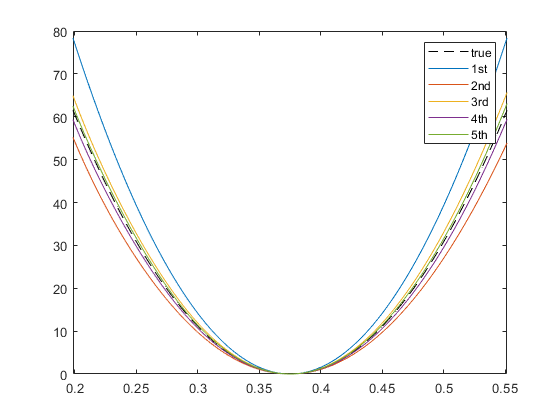
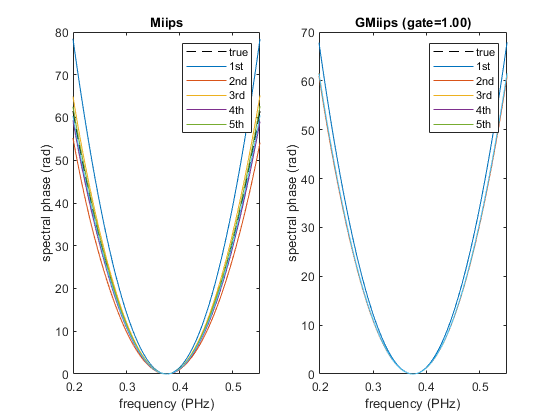
updated Gmiips_2nd_order_iterative.m to include both Miips and GMiips

diff --git a/manual/example_files/Gmiips_2nd_order_iterative.html b/manual/example_files/Gmiips_2nd_order_iterative.html
@@ -6,7 +6,7 @@
    <!--
 This HTML was auto-generated from MATLAB code.
 To make changes, update the MATLAB code and republish this document.
-      --><title>Simulation of Miips with 2nd order spectral phase</title><meta name="generator" content="MATLAB 9.4"><link rel="schema.DC" href="http://purl.org/dc/elements/1.1/"><meta name="DC.date" content="2018-06-11"><meta name="DC.source" content="Gmiips_2nd_order_iterative.m"><style type="text/css">
+      --><title>Simulation of GMiips with 2nd order spectral phase</title><meta name="generator" content="MATLAB 9.4"><link rel="schema.DC" href="http://purl.org/dc/elements/1.1/"><meta name="DC.date" content="2018-06-13"><meta name="DC.source" content="Gmiips_2nd_order_iterative.m"><style type="text/css">
 html,body,div,span,applet,object,iframe,h1,h2,h3,h4,h5,h6,p,blockquote,pre,a,abbr,acronym,address,big,cite,code,del,dfn,em,font,img,ins,kbd,q,s,samp,small,strike,strong,sub,sup,tt,var,b,u,i,center,dl,dt,dd,ol,ul,li,fieldset,form,label,legend,table,caption,tbody,tfoot,thead,tr,th,td{margin:0;padding:0;border:0;outline:0;font-size:100%;vertical-align:baseline;background:transparent}body{line-height:1}ol,ul{list-style:none}blockquote,q{quotes:none}blockquote:before,blockquote:after,q:before,q:after{content:'';content:none}:focus{outine:0}ins{text-decoration:none}del{text-decoration:line-through}table{border-collapse:collapse;border-spacing:0}
 
 html { min-height:100%; margin-bottom:1px; }
@@ -66,34 +66,66 @@ table td { padding:7px 5px; text-align:left; vertical-align:top; border:1px soli
 
 
 
-  </style></head><body><div class="content"><h1>Simulation of Miips with 2nd order spectral phase</h1><!--introduction--><!--/introduction--><h2>Contents</h2><div><ul><li><a href="#1">Set up chirped Gaussian pulse</a></li><li><a href="#2">Simulate Miips</a></li></ul></div><h2 id="1">Set up chirped Gaussian pulse</h2><p>We set a 5 fs pulse with central wavelength of 800 nm, and a chirp of 100 fs^2.</p><pre class="codeinput">p = gaussianPulse(<span class="string">'f0'</span>,300/800, <span class="string">'fwhm'</span>, 5, <span class="string">'units'</span>, <span class="string">'fs'</span>, <span class="string">'dt'</span>, 0.5);
+  </style></head><body><div class="content"><h1>Simulation of GMiips with 2nd order spectral phase</h1><!--introduction--><!--/introduction--><h2>Contents</h2><div><ul><li><a href="#1">Set up chirped Gaussian pulse</a></li><li><a href="#2">Simulate Miips and GMiips</a></li></ul></div><h2 id="1">Set up chirped Gaussian pulse</h2><p>We set a 5 fs pulse with central wavelength of 800 nm, and a chirp of 100 fs^2.</p><pre class="codeinput">p = gaussianPulse(<span class="string">'f0'</span>,300/800, <span class="string">'fwhm'</span>, 5, <span class="string">'units'</span>, <span class="string">'fs'</span>, <span class="string">'dt'</span>, 0.5);
 
 GDD = 100; <span class="comment">% fs^2</span>
 p.polynomialPhase([GDD 0 0])
-</pre><h2 id="2">Simulate Miips</h2><p>The choice of the Miips parameters is crucial for the accuracy of Miips. Specifically one gets more accurate results for low values of 'tau'.</p><pre class="codeinput">maxGDD = 200; <span class="comment">% fs^2</span>
+</pre><h2 id="2">Simulate Miips and GMiips</h2><p>The choice of the Miips parameters is crucial for the accuracy of Miips. Specifically one gets more accurate results for low values of 'tau'.</p><pre class="codeinput">maxGDD = 200; <span class="comment">% fs^2</span>
 tau = p.calculateShortestDuration();
 amp = maxGDD/tau^2;
 phasesteps = linspace(-2*pi, 2*pi, 500);
-</pre><p>Simulate standard miips</p><pre class="codeinput">m = IterativeGmiips(p, amp, tau, phasesteps, <span class="string">'gateWidth'</span>, []);
-</pre><p>Add a few more iterations each iterations should reduce the error. The property 'retrievedPhase' always stores the cumulative retrieved phase.</p><pre class="codeinput">plot(p.frequencyArray, p.spectralPhase, <span class="string">'k--'</span>, m.frequencyArray, m.retrievedPhase);
-xlim([-2, 2] * p.bandwidth + p.centralFrequency)
-hold <span class="string">on</span>
+</pre><pre class="codeinput">m = {};
+m{1} = IterativeGmiips(p, amp, tau, phasesteps, <span class="string">'gateWidth'</span>, inf);
+m{2} = IterativeGmiips(p, amp, tau, phasesteps, <span class="string">'gateWidth'</span>, 1);
+ax_title{1} = <span class="string">'Miips'</span>;
+ax_title{2} = sprintf(<span class="string">'GMiips (gate=%.2f)'</span>, m{2}.gateWidth);
 
-<span class="keyword">for</span> i = 1 : 4
-    m.newIteration();
-    plot(m.frequencyArray, m.retrievedPhase);
+<span class="comment">% Add a few more iterations each iterations should reduce the error. The</span>
+<span class="comment">% property 'retrievedPhase' always stores the cumulative retrieved phase.</span>
+
+figure();
+ax(1) = subplot(1,2,1);
+ax(2) = subplot(1,2,2);
+
+<span class="keyword">for</span> i = 1 : 2
+  plot(ax(i), p.frequencyArray, p.spectralPhase, <span class="string">'k--'</span>, m{i}.frequencyArray, m{i}.retrievedPhase);
+  xlim(ax(i), [-2, 2] * p.bandwidth + p.centralFrequency)
+  hold(ax(i), <span class="string">'on'</span>);
+  xlabel(ax(i), sprintf(<span class="string">'frequency (%s)'</span>, p.frequencyUnits));
+  ylabel(ax(i), <span class="string">'spectral phase (rad)'</span>);
+  title(ax(i), ax_title{i});
 <span class="keyword">end</span>
-legend(<span class="string">'true'</span>, <span class="string">'1st'</span>, <span class="string">'2nd'</span>, <span class="string">'3rd'</span>, <span class="string">'4th'</span>, <span class="string">'5th'</span>);
-hold <span class="string">off</span>
-</pre><img vspace="5" hspace="5" src="Gmiips_2nd_order_iterative_01.png" alt=""> <p>The results of single iterations are available in the 'iterations' property.</p><p>If everything goes well, the retrieved phase should decrease at each iteration.</p><pre class="codeinput">axes(); clf; hold <span class="string">on</span>;  grid <span class="string">on</span>; xlabel(<span class="string">'frequency (PHz)'</span>); ylabel(<span class="string">'spectral phase (rad)'</span>)
-<span class="keyword">for</span> i = 1 : length(m.iterations)
-    plot(m.frequencyArray, m.iterations{i}.retrievedPhase);
+
+<span class="keyword">for</span> i = 1 : 2
+  <span class="keyword">for</span> iteration = 1 : 5
+    m{i}.newIteration();
+    plot(ax(i), m{i}.frequencyArray, m{i}.retrievedPhase);
+  <span class="keyword">end</span>
+
+  legend(ax(i), <span class="string">'true'</span>, <span class="string">'1st'</span>, <span class="string">'2nd'</span>, <span class="string">'3rd'</span>, <span class="string">'4th'</span>, <span class="string">'5th'</span>);
 <span class="keyword">end</span>
-xlim([-1, 1] * p.bandwidth + p.centralFrequency)
-legend(<span class="string">'1st'</span>, <span class="string">'2nd'</span>, <span class="string">'3rd'</span>, <span class="string">'4th'</span>, <span class="string">'5th'</span>)
+</pre><img vspace="5" hspace="5" src="Gmiips_2nd_order_iterative_01.png" alt=""> <p>The results of single iterations are available in the 'iterations' property. If everything goes well, the retrieved phase should decrease at each iteration.</p><pre class="codeinput">figure();
+ax(1) = subplot(1,2,1);
+ax(2) = subplot(1,2,2);
+
+<span class="keyword">for</span> i = 1 : 2
+  hold(ax(i), <span class="string">'on'</span>);
+  <span class="keyword">for</span> j = 1 : length(m{i}.iterations)
+    plot(ax(i), m{i}.frequencyArray, m{i}.iterations{j}.retrievedPhase);
+  <span class="keyword">end</span>
+  xlim(ax(i), [-2, 2] * p.bandwidth + p.centralFrequency)
+  ylim(ax(i), [-10, 10]);
+  legend(ax(i), <span class="string">'true'</span>, <span class="string">'1st'</span>, <span class="string">'2nd'</span>, <span class="string">'3rd'</span>, <span class="string">'4th'</span>, <span class="string">'5th'</span>);
+  xlabel(ax(i), sprintf(<span class="string">'frequency (%s)'</span>, p.frequencyUnits));
+  ylabel(ax(i), <span class="string">'spectral phase (rad)'</span>);
+  title(ax(i), ax_title{i});
+  hold(ax(i), <span class="string">'off'</span>);
+  grid(ax(i), <span class="string">'on'</span>);
+<span class="keyword">end</span>
 </pre><img vspace="5" hspace="5" src="Gmiips_2nd_order_iterative_02.png" alt=""> <p class="footer"><br><a href="https://www.mathworks.com/products/matlab/">Published with MATLAB&reg; R2018a</a><br></p></div><!--
 ##### SOURCE BEGIN #####
-%% Simulation of Miips with 2nd order spectral phase
+%% Simulation of GMiips with 2nd order spectral phase
+
 %% Set up chirped Gaussian pulse
 % We set a 5 fs pulse with central wavelength of 800 nm, and a chirp of 100 
 % fs^2.
@@ -102,7 +134,8 @@ p = gaussianPulse('f0',300/800, 'fwhm', 5, 'units', 'fs', 'dt', 0.5);
 
 GDD = 100; % fs^2
 p.polynomialPhase([GDD 0 0])
-%% Simulate Miips
+
+%% Simulate Miips and GMiips
 % The choice of the Miips parameters is crucial for the accuracy of Miips. Specifically 
 % one gets more accurate results for low values of 'tau'.
 %%
@@ -110,34 +143,66 @@ maxGDD = 200; % fs^2
 tau = p.calculateShortestDuration();
 amp = maxGDD/tau^2;
 phasesteps = linspace(-2*pi, 2*pi, 500);
-%% 
-% Simulate standard miips
 
-m = IterativeGmiips(p, amp, tau, phasesteps, 'gateWidth', []);
 %% 
+m = {};
+m{1} = IterativeGmiips(p, amp, tau, phasesteps, 'gateWidth', inf);
+m{2} = IterativeGmiips(p, amp, tau, phasesteps, 'gateWidth', 1);
+ax_title{1} = 'Miips';
+ax_title{2} = sprintf('GMiips (gate=%.2f)', m{2}.gateWidth);
+
 % Add a few more iterations each iterations should reduce the error. The 
 % property 'retrievedPhase' always stores the cumulative retrieved phase.
-%%
-plot(p.frequencyArray, p.spectralPhase, 'kREPLACE_WITH_DASH_DASH', m.frequencyArray, m.retrievedPhase);
-xlim([-2, 2] * p.bandwidth + p.centralFrequency)
-hold on
 
-for i = 1 : 4
-    m.newIteration();
-    plot(m.frequencyArray, m.retrievedPhase);
+figure();
+ax(1) = subplot(1,2,1);
+ax(2) = subplot(1,2,2);
+
+for i = 1 : 2
+  plot(ax(i), p.frequencyArray, p.spectralPhase, 'kREPLACE_WITH_DASH_DASH', m{i}.frequencyArray, m{i}.retrievedPhase);
+  xlim(ax(i), [-2, 2] * p.bandwidth + p.centralFrequency)
+  hold(ax(i), 'on');
+  xlabel(ax(i), sprintf('frequency (%s)', p.frequencyUnits));
+  ylabel(ax(i), 'spectral phase (rad)');
+  title(ax(i), ax_title{i});
 end
-legend('true', '1st', '2nd', '3rd', '4th', '5th');
-hold off
+
+for i = 1 : 2
+  for iteration = 1 : 5
+    m{i}.newIteration();
+    plot(ax(i), m{i}.frequencyArray, m{i}.retrievedPhase);
+  end
+  
+  legend(ax(i), 'true', '1st', '2nd', '3rd', '4th', '5th');
+end
+
 %% 
 % The results of single iterations are available in the 'iterations' property.
-% 
 % If everything goes well, the retrieved phase should decrease at each iteration.
 %%
-axes(); clf; hold on;  grid on; xlabel('frequency (PHz)'); ylabel('spectral phase (rad)')
-for i = 1 : length(m.iterations)
-    plot(m.frequencyArray, m.iterations{i}.retrievedPhase);
+figure();
+ax(1) = subplot(1,2,1);
+ax(2) = subplot(1,2,2);
+
+for i = 1 : 2
+  hold(ax(i), 'on');
+  for j = 1 : length(m{i}.iterations)
+    plot(ax(i), m{i}.frequencyArray, m{i}.iterations{j}.retrievedPhase);
+  end
+  xlim(ax(i), [-2, 2] * p.bandwidth + p.centralFrequency)
+  ylim(ax(i), [-10, 10]);
+  legend(ax(i), 'true', '1st', '2nd', '3rd', '4th', '5th');
+  xlabel(ax(i), sprintf('frequency (%s)', p.frequencyUnits));
+  ylabel(ax(i), 'spectral phase (rad)');
+  title(ax(i), ax_title{i});
+  hold(ax(i), 'off');
+  grid(ax(i), 'on');
 end
-xlim([-1, 1] * p.bandwidth + p.centralFrequency)
-legend('1st', '2nd', '3rd', '4th', '5th')
+
+
+
+
+
+
 ##### SOURCE END #####
 --></body></html>

diff --git a/examples/Gmiips_2nd_order_iterative.m b/examples/Gmiips_2nd_order_iterative.m
@@ -1,4 +1,5 @@
-%% Simulation of Miips with 2nd order spectral phase
+%% Simulation of GMiips with 2nd order spectral phase
+
 %% Set up chirped Gaussian pulse
 % We set a 5 fs pulse with central wavelength of 800 nm, and a chirp of 100 
 % fs^2.
@@ -7,7 +8,8 @@ p = gaussianPulse('f0',300/800, 'fwhm', 5, 'units', 'fs', 'dt', 0.5);
 
 GDD = 100; % fs^2
 p.polynomialPhase([GDD 0 0])
-%% Simulate Miips
+
+%% Simulate Miips and GMiips
 % The choice of the Miips parameters is crucial for the accuracy of Miips. Specifically 
 % one gets more accurate results for low values of 'tau'.
 %%
@@ -15,32 +17,63 @@ maxGDD = 200; % fs^2
 tau = p.calculateShortestDuration();
 amp = maxGDD/tau^2;
 phasesteps = linspace(-2*pi, 2*pi, 500);
-%% 
-% Simulate standard miips
 
-m = IterativeGmiips(p, amp, tau, phasesteps, 'gateWidth', []);
 %% 
+m = {};
+m{1} = IterativeGmiips(p, amp, tau, phasesteps, 'gateWidth', inf);
+m{2} = IterativeGmiips(p, amp, tau, phasesteps, 'gateWidth', 1);
+ax_title{1} = 'Miips';
+ax_title{2} = sprintf('GMiips (gate=%.2f)', m{2}.gateWidth);
+
 % Add a few more iterations each iterations should reduce the error. The 
 % property 'retrievedPhase' always stores the cumulative retrieved phase.
-%%
-plot(p.frequencyArray, p.spectralPhase, 'k--', m.frequencyArray, m.retrievedPhase);
-xlim([-2, 2] * p.bandwidth + p.centralFrequency)
-hold on
 
-for i = 1 : 4
-    m.newIteration();
-    plot(m.frequencyArray, m.retrievedPhase);
+figure();
+ax(1) = subplot(1,2,1);
+ax(2) = subplot(1,2,2);
+
+for i = 1 : 2
+  plot(ax(i), p.frequencyArray, p.spectralPhase, 'k--', m{i}.frequencyArray, m{i}.retrievedPhase);
+  xlim(ax(i), [-2, 2] * p.bandwidth + p.centralFrequency)
+  hold(ax(i), 'on');
+  xlabel(ax(i), sprintf('frequency (%s)', p.frequencyUnits));
+  ylabel(ax(i), 'spectral phase (rad)');
+  title(ax(i), ax_title{i});
 end
-legend('true', '1st', '2nd', '3rd', '4th', '5th');
-hold off
+
+for i = 1 : 2
+  for iteration = 1 : 5
+    m{i}.newIteration();
+    plot(ax(i), m{i}.frequencyArray, m{i}.retrievedPhase);
+  end
+  
+  legend(ax(i), 'true', '1st', '2nd', '3rd', '4th', '5th');
+end
+
 %% 
 % The results of single iterations are available in the 'iterations' property.
-% 
 % If everything goes well, the retrieved phase should decrease at each iteration.
 %%
-axes(); clf; hold on;  grid on; xlabel('frequency (PHz)'); ylabel('spectral phase (rad)')
-for i = 1 : length(m.iterations)
-    plot(m.frequencyArray, m.iterations{i}.retrievedPhase);
+figure();
+ax(1) = subplot(1,2,1);
+ax(2) = subplot(1,2,2);
+
+for i = 1 : 2
+  hold(ax(i), 'on');
+  for j = 1 : length(m{i}.iterations)
+    plot(ax(i), m{i}.frequencyArray, m{i}.iterations{j}.retrievedPhase);
+  end
+  xlim(ax(i), [-2, 2] * p.bandwidth + p.centralFrequency)
+  ylim(ax(i), [-10, 10]);
+  legend(ax(i), 'true', '1st', '2nd', '3rd', '4th', '5th');
+  xlabel(ax(i), sprintf('frequency (%s)', p.frequencyUnits));
+  ylabel(ax(i), 'spectral phase (rad)');
+  title(ax(i), ax_title{i});
+  hold(ax(i), 'off');
+  grid(ax(i), 'on');
 end
-xlim([-1, 1] * p.bandwidth + p.centralFrequency)
-legend('1st', '2nd', '3rd', '4th', '5th')
+
+
+
+
+
